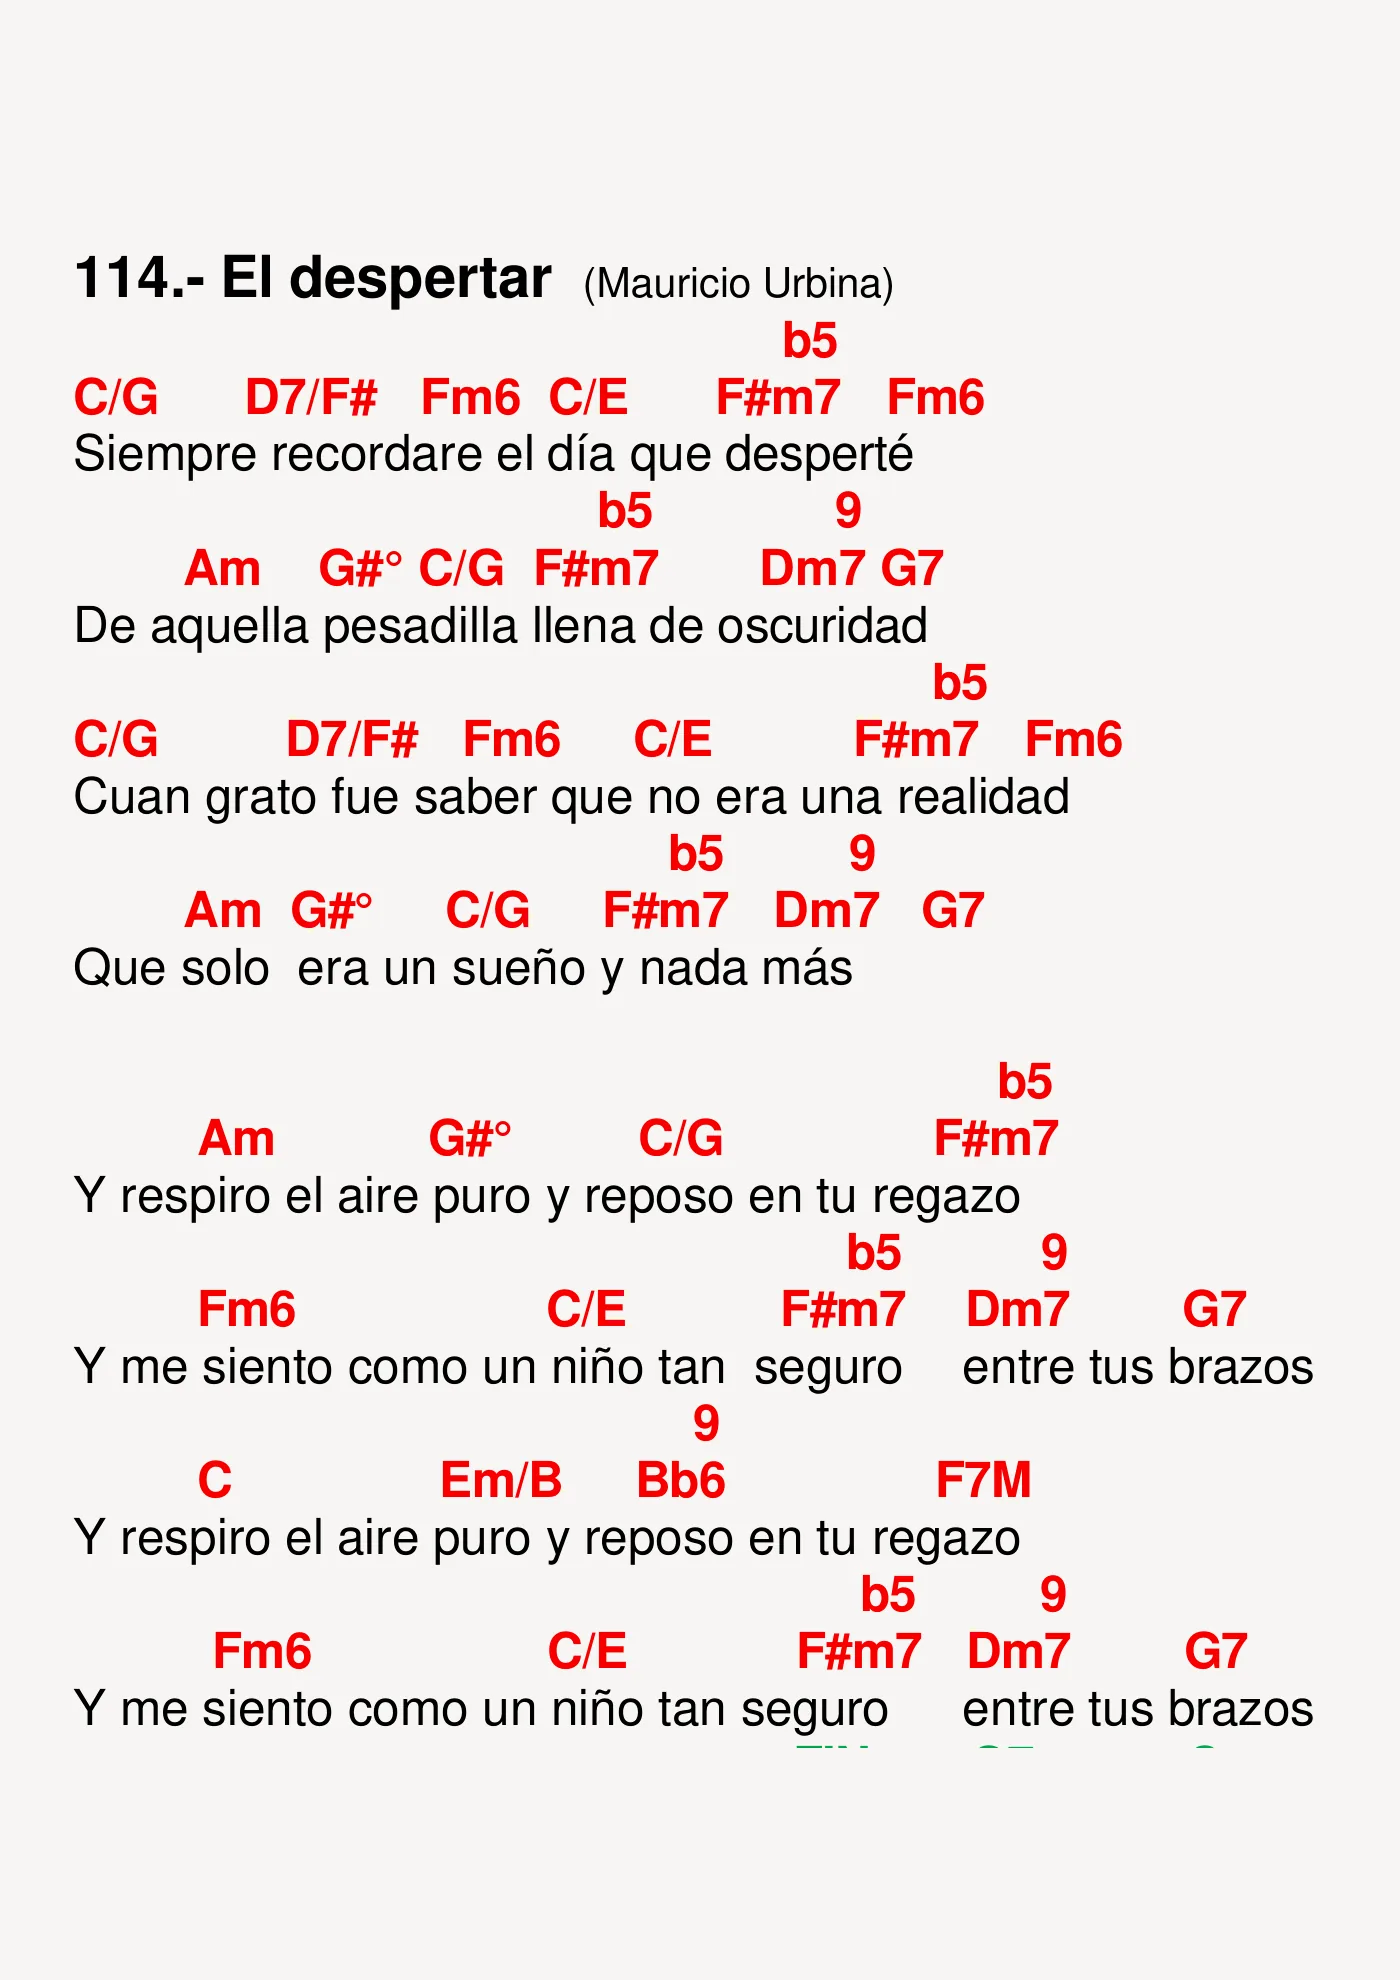
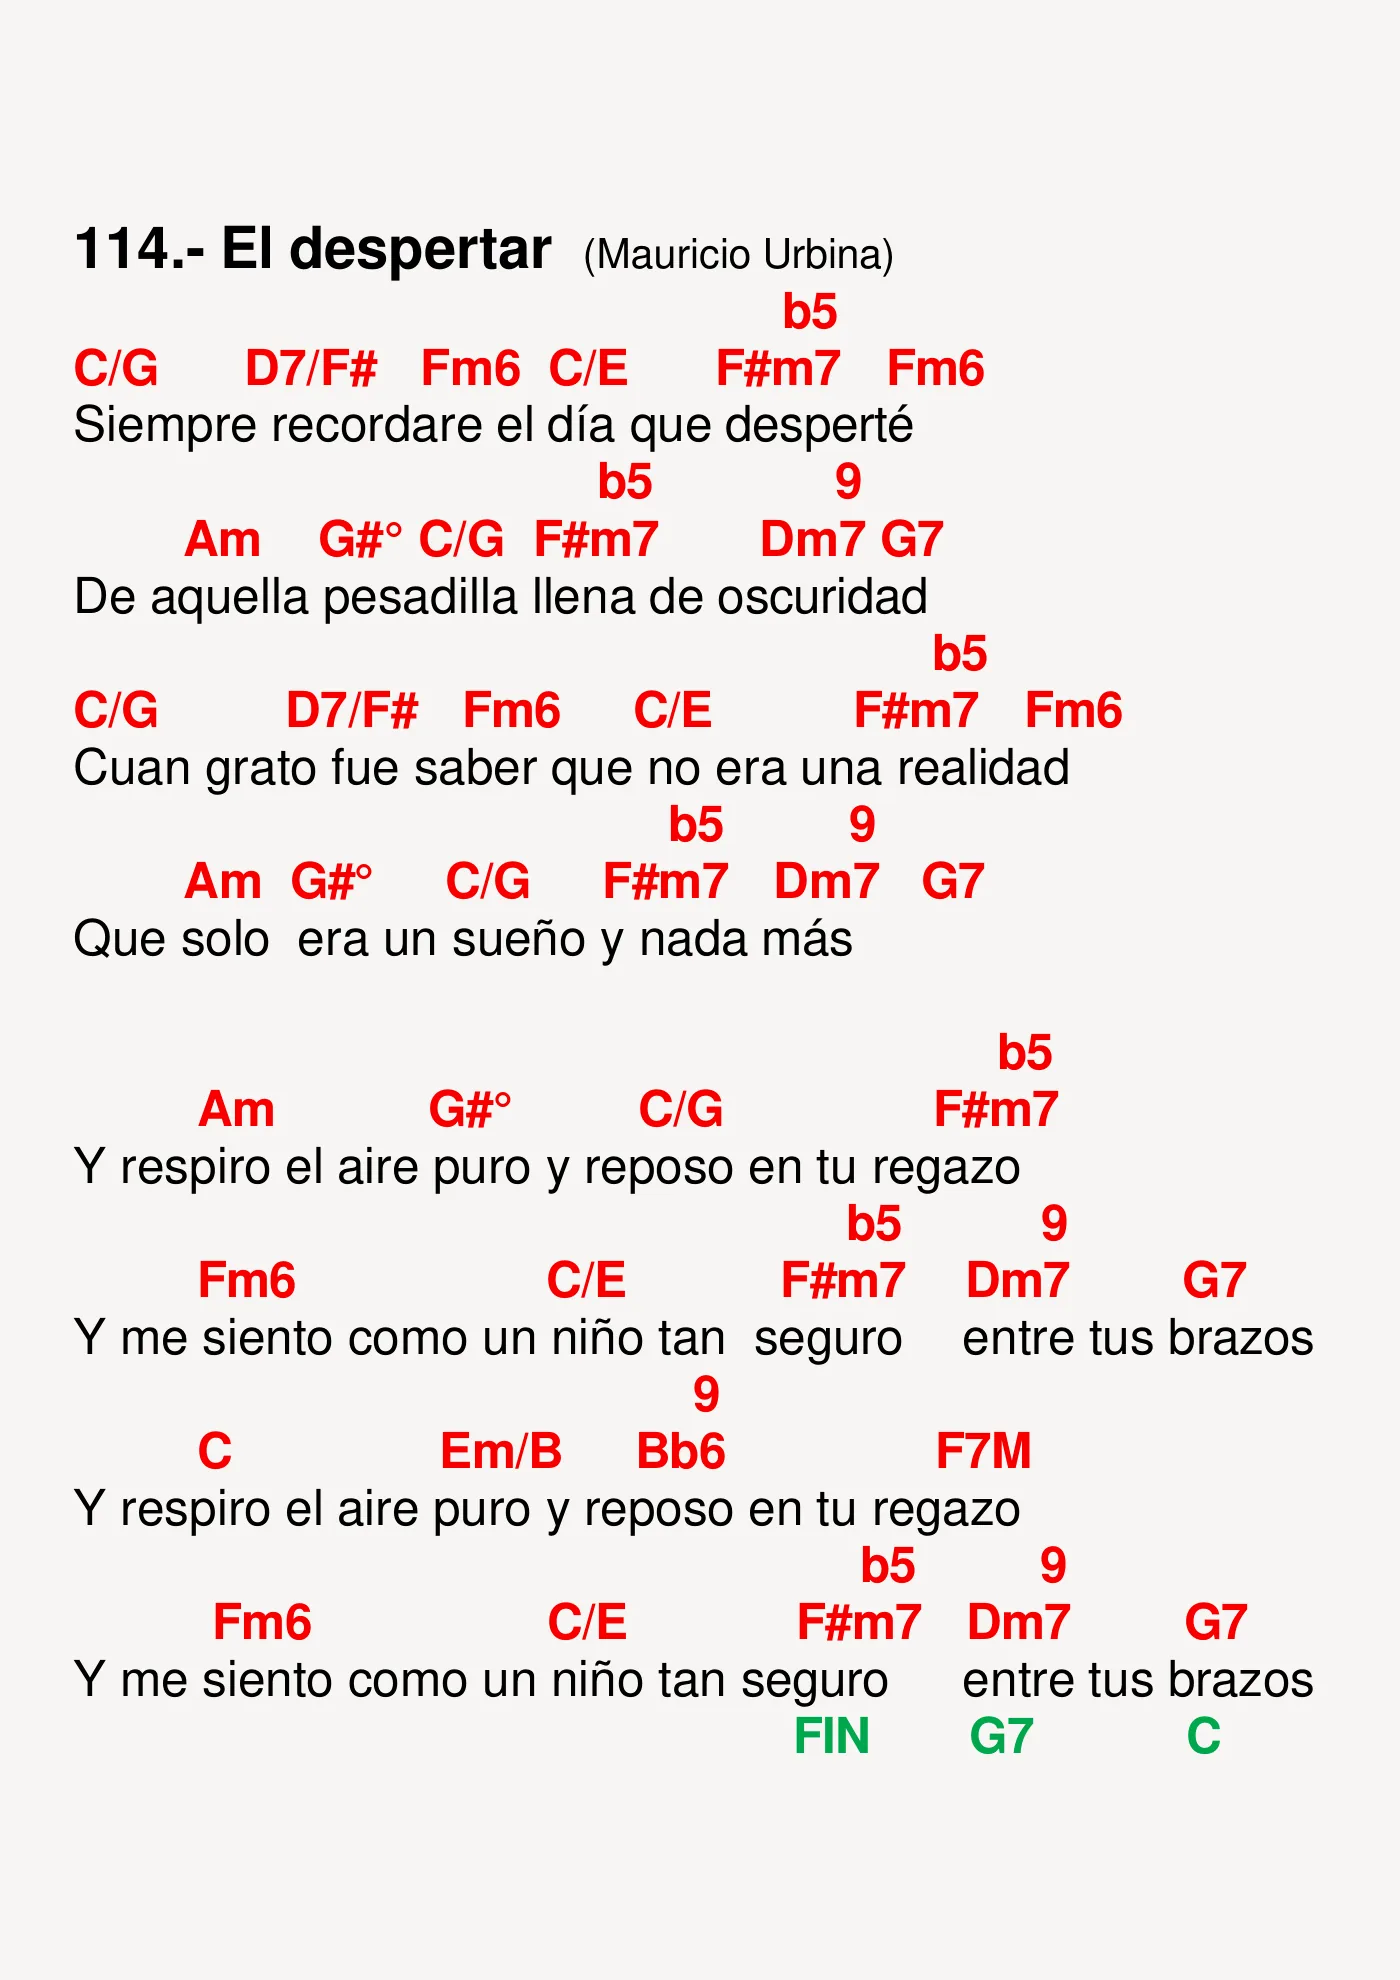
Himnos 114 y 115: el final verde "FIN G7 C" vuelve al 114 (1.3.5)
Las notas verdes antes de un titulo solo son de ese himno si estan pegadas
a el (indicacion de guitarra); si estan lejos o dicen FIN, son el final del
himno anterior. Antes el 115 empezaba con ese final cortado y al 114 le
faltaba. Solo cambian las imagenes 114 y 115 (claro y oscuro).

Changed region(s): [[0.0307, 0.0924, 0.7986, 0.4929], [0.0614, 0.5237, 0.9521, 0.8934]]

diff --git a/scripts/himnario-pdf/extraer.py b/scripts/himnario-pdf/extraer.py
@@ -30,6 +30,8 @@ def es_negrita(linea) -> bool:
 def titulo_de(linea):
     return TITULO.match(linea["texto"]) or (es_negrita(linea) and TITULO_SIN_GUION.match(linea["texto"]))
 ENCABEZADO = re.compile(r"himnario para m", re.I)
+# Una nota verde a esta distancia (pt) o menos sobre un título es indicación de ese himno; más lejos, del anterior.
+SEPARACION_NOTA_TITULO = 12
 
 
 def es_rojo(color: int) -> bool:
@@ -105,11 +107,18 @@ def main():
             if m:
                 n = int(m.group(1))
                 titulo, autor, notas = limpiar_titulo(m.group(2))
+                anterior = actual
                 actual = himnos.setdefault(n, {"numero": n, "titulo": titulo, "autor": autor, "notas": notas,
                                                "pagina": impreso, "trozos": {}, "lineas": []})
-                # La nota verde justo antes del título es de ESTE himno (indicación para guitarra).
+                # Notas verdes antes de un título:
+                #  - PEGADAS al título (indicación para guitarra, p. ej. "C III" sobre el 12) → son de ESTE himno.
+                #  - Lejos del título o con "FIN" (final del himno anterior, p. ej. "FIN / G7 / C" bajo el 114,
+                #    a 42 pt del 115) → son del himno ANTERIOR.
+                es_final = any(re.search(r"\bfin\b", nota["texto"], re.I) for nota in notas_pendientes)
                 for nota in notas_pendientes:
-                    actual["trozos"].setdefault(indice, []).append(nota["caja"])
+                    pegada = l["caja"].y0 - nota["caja"].y1 <= SEPARACION_NOTA_TITULO
+                    destino = actual if (pegada and not es_final) or anterior is None else anterior
+                    destino["trozos"].setdefault(indice, []).append(nota["caja"])
             elif actual is not None:
                 # Una nota verde en medio de un himno (no antes de un título) es del himno actual.
                 for nota in notas_pendientes:
